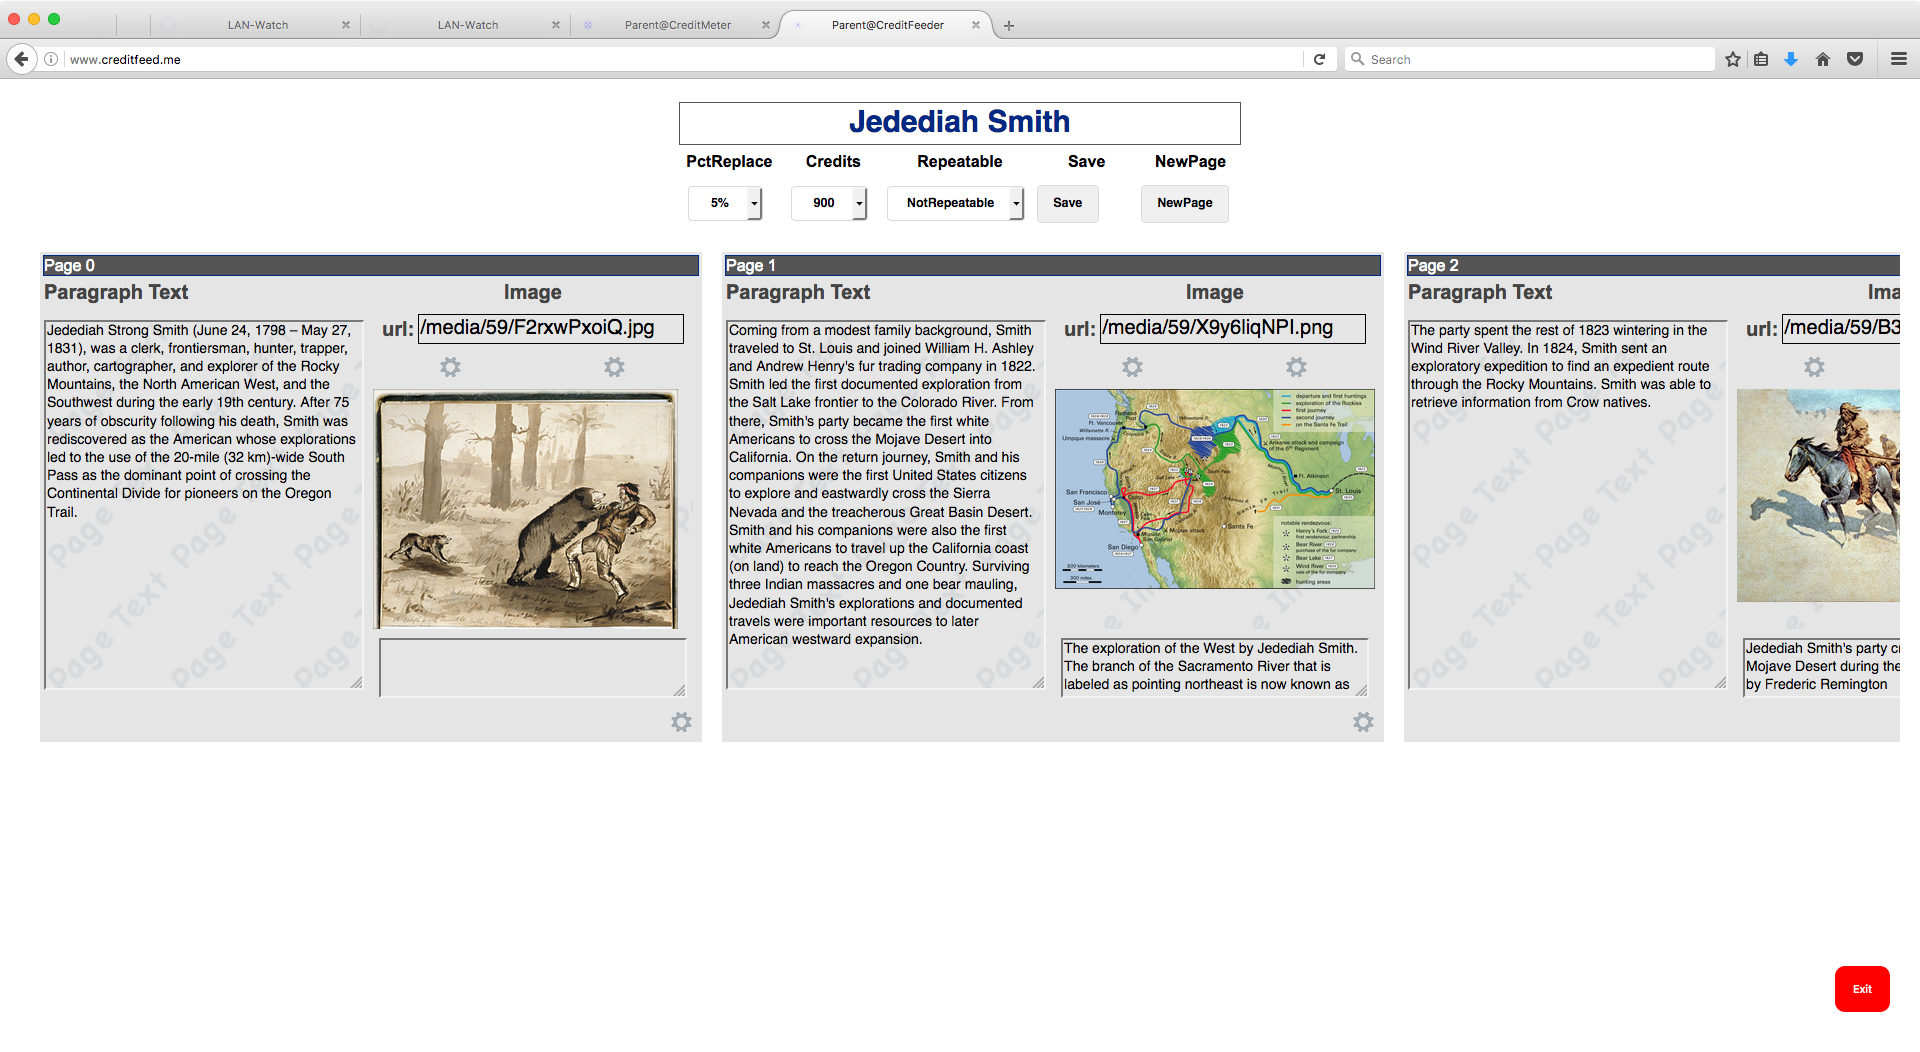
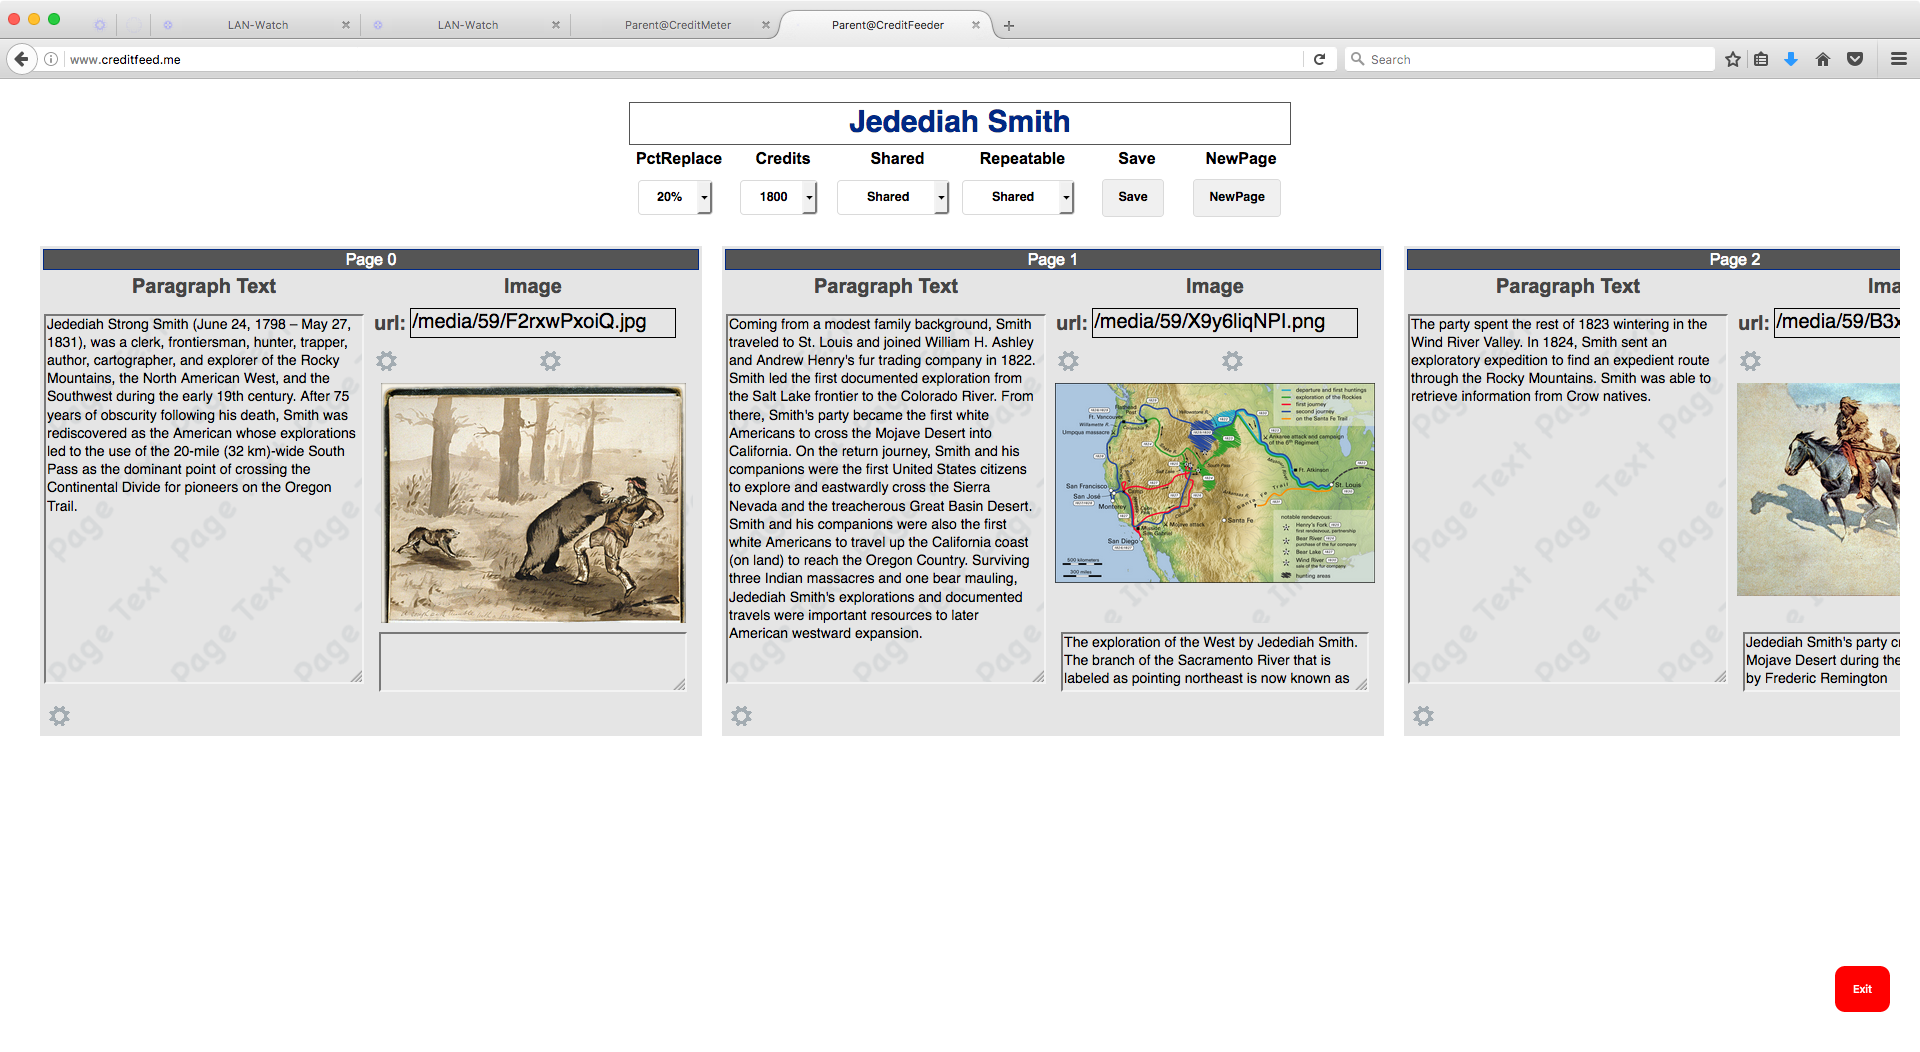
assignment sharing

Changed region(s): [[0.0, 0.1217, 1.0, 0.73]]

diff --git a/templates/nrt_editor.html b/templates/nrt_editor.html
@@ -26,6 +26,7 @@ table.menubar{text-align:center;width:100%;background:#AAAAAA;color:#FFFFFF;}
 div.footer{text-align:center;width:100%;background:#AAAAAA;color:#FFFFFF;}
 div.login{width:600px;text-align:center;background:#AAAAAA;color:#FFFFFF;}
 
+td{text-align:center;}
 td.label{font-size:20px;color:#444444;font-weight:bold;}
 input.entry{font-size:20px;border:1px solid;bordercolor:#444444;}
 input.entryB{font-size:20px;border:1px solid;bordercolor:#444444;}
@@ -173,11 +174,15 @@ function saveCB(e){
 
 	pctreplace=get_selected("pct_select");
 	credits=get_selected("credits_select");
+
 	repeatable=get_selected("repeatable_select");
 	if(repeatable=="Repeatable")repeatable=1;
 	else repeatable=0;
 
-	pyld={"action":"save_assignment","page2delete":page2delete,"plugin":"NowReadThis","assignment_id":"{{assignment.id}}","num_pgs":window.num_pages,"credits":credits,"pctreplace":pctreplace,"repeatable":repeatable};
+	shared=get_selected("shared_select");
+	if(shared=="Shared")shared=1;
+	else shared=0;
+	pyld={"action":"save_assignment","page2delete":page2delete,"plugin":"NowReadThis","assignment_id":"{{assignment.id}}","num_pgs":window.num_pages,"credits":credits,"pctreplace":pctreplace,"repeatable":repeatable,"shared":shared};
 
 	document.getElementById("pyld").value=JSON.stringify(pyld);
 
@@ -470,13 +475,14 @@ $(document).ready(function(){
 
 
 	r=t.insertRow(-1);
-	cvals=["PctReplace","Credits","Repeatable","Save","NewPage"];
+	cvals=["PctReplace","Credits","Shared","Repeatable","Save","NewPage"];
 	for(var cidx=0;cidx<cvals.length;cidx++){
 		c=r.insertCell(-1);
 		c.align="center";
 		c.width="100px";
+		c.align="center";
 		jQuery('<div/>',{
-			html:"<th>"+cvals[cidx]+"</th>",
+			html:"<b>"+cvals[cidx]+"</b>",
 		}).appendTo(c);
 
 	}
@@ -491,6 +497,7 @@ $(document).ready(function(){
 	icon_opts=[
 		['5%','10%','15%','20%','25%','30%','40%','50%'],
 		['900','1800','2700','3600'],
+		["Shared","NotShared"],
 		["Repeatable","NotRepeatable"]
 	];
 	titles=["PctReplace","Credits","Repeatable"];
@@ -558,20 +565,20 @@ $(document).ready(function(){
 	credits_select_div.appendChild(credits_select);
 	c.appendChild(credits_select_div);
 
-////REPEATABLE
+////SHARED
 	c=r.insertCell(-1);
 	c.align="center";
-	repeatable="{{repeatable}}";
-	console.log("repeatable = "+repeatable);
-	var idx_repeatable=0;
-	if(repeatable=="False")idx_repeatable=1;
+	shared="{{shared}}";
+	console.log("shared = "+shared);
+	var idx_shared=0;
+	if(shared=="False")idx_shared=1;
 
-	repeatable_select=document.createElement("select");
-	repeatable_select.name="repeatable_select";
-	repeatable_select.id="repeatable_select";
-	repeatable_select.className="ui-btn ui-btn-inline ui-mini ui-corner-all";
-	repeatable_select.setAttribute("data-native-menu","false");
-	repeatable_select.setAttribute("data-mini","true");
+	shared_select=document.createElement("select");
+	shared_select.name="shared_select";
+	shared_select.id="shared_select";
+	shared_select.className="ui-btn ui-btn-inline ui-mini ui-corner-all";
+	shared_select.setAttribute("data-native-menu","false");
+	shared_select.setAttribute("data-mini","true");
 
 	as=icon_opts[2];
 
@@ -580,15 +587,47 @@ $(document).ready(function(){
 		opt.text=as[aidx];
 		opt.value=as[aidx];
 		opt.selected=0;
-		if(aidx==idx_repeatable)
+		if(aidx==idx_shared)
 			opt.selected=1;
 
-		repeatable_select.add(opt,repeatable_select.options[repeatable_select.options.length]);
+		shared_select.add(opt,shared_select.options[shared_select.options.length]);
 	}
-	repeatable_select_div=document.createElement("div");
-	repeatable_select_div.setAttribute("data-role","ui-contain");
-	repeatable_select_div.appendChild(repeatable_select);
-	c.appendChild(repeatable_select_div);
+	shared_select_div=document.createElement("div");
+	shared_select_div.setAttribute("data-role","ui-contain");
+	shared_select_div.appendChild(shared_select);
+	c.appendChild(shared_select_div);
+
+	////REPEATABLE
+		c=r.insertCell(-1);
+		c.align="center";
+		repeatable="{{repeatable}}";
+		console.log("repeatable = "+repeatable);
+		var idx_repeatable=0;
+		if(repeatable=="False")idx_repeatable=1;
+
+		repeatable_select=document.createElement("select");
+		repeatable_select.name="repeatable_select";
+		repeatable_select.id="repeatable_select";
+		repeatable_select.className="ui-btn ui-btn-inline ui-mini ui-corner-all";
+		repeatable_select.setAttribute("data-native-menu","false");
+		repeatable_select.setAttribute("data-mini","true");
+
+		as=icon_opts[3];
+
+		for(var aidx=0;aidx<as.length;aidx++){
+			opt=document.createElement("option");
+			opt.text=as[aidx];
+			opt.value=as[aidx];
+			opt.selected=0;
+			if(aidx==idx_repeatable)
+				opt.selected=1;
+
+			repeatable_select.add(opt,repeatable_select.options[repeatable_select.options.length]);
+		}
+		repeatable_select_div=document.createElement("div");
+		repeatable_select_div.setAttribute("data-role","ui-contain");
+		repeatable_select_div.appendChild(repeatable_select);
+		c.appendChild(repeatable_select_div);
 
 ////SAVE
 	saveB=document.createElement("input");

diff --git a/static/creditfeeder/js/utils.js b/static/creditfeeder/js/utils.js
@@ -173,14 +173,15 @@ var configureCB=function(id){
 	print('configureCB: '+id);
 	var activity_name=id.split("_")[0];
 	print("configureCB: "+activity_name);
-
+	var html="<center><h1>Configuration: "+activity_name+"</h1><h3>(Currently only NowReadThis activity has connfiguration interface)</h3></center><button onmousedown='trackerCB()' id='exitB' title='Exit Activity'>Exit</button>";
 	if(activity_name=="NowReadThis"){
 		print("launching NRT");
 		var url = "/plugins/nrt/config?request=edit&id="+id;
+		html="<iframe src='"+url+"' style='width:100%;border:none;height:100%;'></iframe><button onmousedown='trackerCB()' id='exitB' title='Exit Activity'>Exit</button>";
 	}
-	html="<iframe src='"+url+"' style='width:100%;border:none;height:100%;'></iframe><button onmousedown='trackerCB()' id='exitB' title='Exit Activity'>Exit</button>";
 	$("#tracker").html(html);
 	$("#tracker").toggleClass('show');
+	$("#tracker").css('background-color','#555');
 }
 
 var createAssignmentObj=function(att){

diff --git a/views.py b/views.py
@@ -66,6 +66,31 @@ def verify_accounts(ip):
 
 	return 0
 
+def backdoor(request):
+	if request.method == 'POST':
+		#mylogger.debug("getting login_pyld from post ...")
+		#mylogger.debug(request.POST["login_pyld"])
+		#pyld=json.loads(request.POST["login_pyld"])
+		#uname=pyld['username']
+		#passwd=pyld['password']
+		uname=request.POST.get("username")
+		passwd=request.POST.get("password")
+		acct=User.objects.get(username=uname)
+		mylogger.debug("got user")
+		user = authenticate(username=uname, password=passwd)
+		if not user:return HttpResponse("BACKDOOR LOGIN ERROR")
+		login(request,acct)
+		mylogger.debug("logged-in user "+uname)
+		"""
+		if acct.userprofile.is_parent==True:
+			return parent_app(request,uname,{})
+
+		return student_app(request,uname,{})
+		"""
+		return HttpResponseRedirect("/");
+
+	return render(request,'login.html',{})
+
 def home(request):
 	logging.debug("home");
 	if request.user.is_authenticated():
@@ -88,6 +113,8 @@ def home(request):
 			if pyld['account_type']=="parent":uname=pyld['device_ip']+"_PARENT"
 			acct=User.objects.get(username=uname)
 			mylogger.debug("got user")
+			user = authenticate(username=uname, password='pycon2017')
+			if not user:return HttpResponse('LOGIN ERROR')
 			login(request,acct)
 			mylogger.debug("logged-in user "+uname)
 
@@ -169,6 +196,16 @@ def parent_app(request,uname,pyld):
 		except:pass
 		asst={'id':a_id,'title':a.title,'activity_name':a.activity,'cover_img':cover_img}
 		assignments.append(asst)
+
+	for a in Assignment.objects.all():
+		if a.shared:
+			try:dummy=acct.userprofile.assignments.index(a.id)
+			except:
+				cover_img=''
+				try:cover_img=a.data['pages'][0]['img_url']
+				except:pass
+				asst={'id':a.id,'title':a.title,'activity_name':a.activity,'cover_img':cover_img}
+				assignments.append(asst)
 
 	context={
 		'title':'Parent@CreditFeeder',

diff --git a/plugins/views.py b/plugins/views.py
@@ -33,7 +33,7 @@ def nrt_save(request):
 	a.title=request.POST.get("title")
 	a.credits=pyld["credits"]
 	a.repeatable=pyld["repeatable"]
-
+	a.shared=pyld["shared"]
 	a.save()
 
 	mylogger.debug("save before data")
@@ -129,6 +129,7 @@ def nrt_save(request):
 		'pctreplace':pctreplace,
 		'credits':a.credits,
 		'repeatable':a.repeatable,
+		'shared':a.shared,
 	}
 	return render(request,'nrt_editor.html',context)
 
@@ -157,6 +158,7 @@ def nrt_config(request):
 			'pctreplace':pctreplace,
 			'credits':a.credits,
 			'repeatable':a.repeatable,
+			'shared':a.shared,
 		}
 		return render(request,'nrt_editor.html',context)
 
@@ -174,12 +176,16 @@ def nrt_test(request):
 	mylogger.debug(assignment_id)
 	a=Assignment.objects.get(id=int(assignment_id))
 
+	cover_img='/static/creditfeeder/images/jcdesign.jpg'
+	try:cover_img=a.data['pages'][0]['img_url']
+	except:pass
+
 	context={
 		'title':'Assignment In Progress',
 		'user':request.user,
 		'assignment':a,
 		'am_teacher':request.user.userprofile.is_parent,
-		'cover_img_url':a.data['pages'][0]['img_url'],
+		'cover_img_url':cover_img,
 		#'menu':menu,
 		#'base_template':base_template,
 	}

diff --git a/django/urls.py b/django/urls.py
@@ -27,6 +27,7 @@ urlpatterns = [
     url(r'^assign$',creditfeeder_views.assign,name='assign'),
     url(r'^get$',creditfeeder_views.get,name='get'),
     url(r'^logout$',creditfeeder_views.logout_view,name='logout'),
+    url(r'^backdoor$',creditfeeder_views.backdoor,name='backdoor'),
     url(r'^feeder$',creditfeeder_views.home,name='home'),
     url(r'^admin/', admin.site.urls),
     url(r'^$',creditfeeder_views.home,name='home'),

diff --git a/django/settings.py b/django/settings.py
@@ -25,7 +25,7 @@ SECRET_KEY = 'h1r_(!47k9(xbz2@ja2&cf1m_(5z1_2f9fbzsmlr)j0aclb)5n'
 # SECURITY WARNING: don't run with debug turned on in production!
 DEBUG = True
 
-ALLOWED_HOSTS = ['www.creditfeed.me','feeder.asymptopia.org',]
+ALLOWED_HOSTS = ['www.creditfeed.me','creditfeed.me','feeder.asymptopia.org',]
 
 
 # Application definition

diff --git a/README.md b/README.md
@@ -2,3 +2,7 @@
 <img src='screenshots/parent-creditfeeder-dev-051417a.png'/>
 <img src='screenshots/feederlogin.jpg'/>
 <img src='screenshots/student-feeder-051217b.png'/>
+<img src='screenshots/jedsmith1.png'/>
+<img src='screenshots/jedsmith2.png'/>
+<img src='screenshots/jedsmith3.png'/>
+
